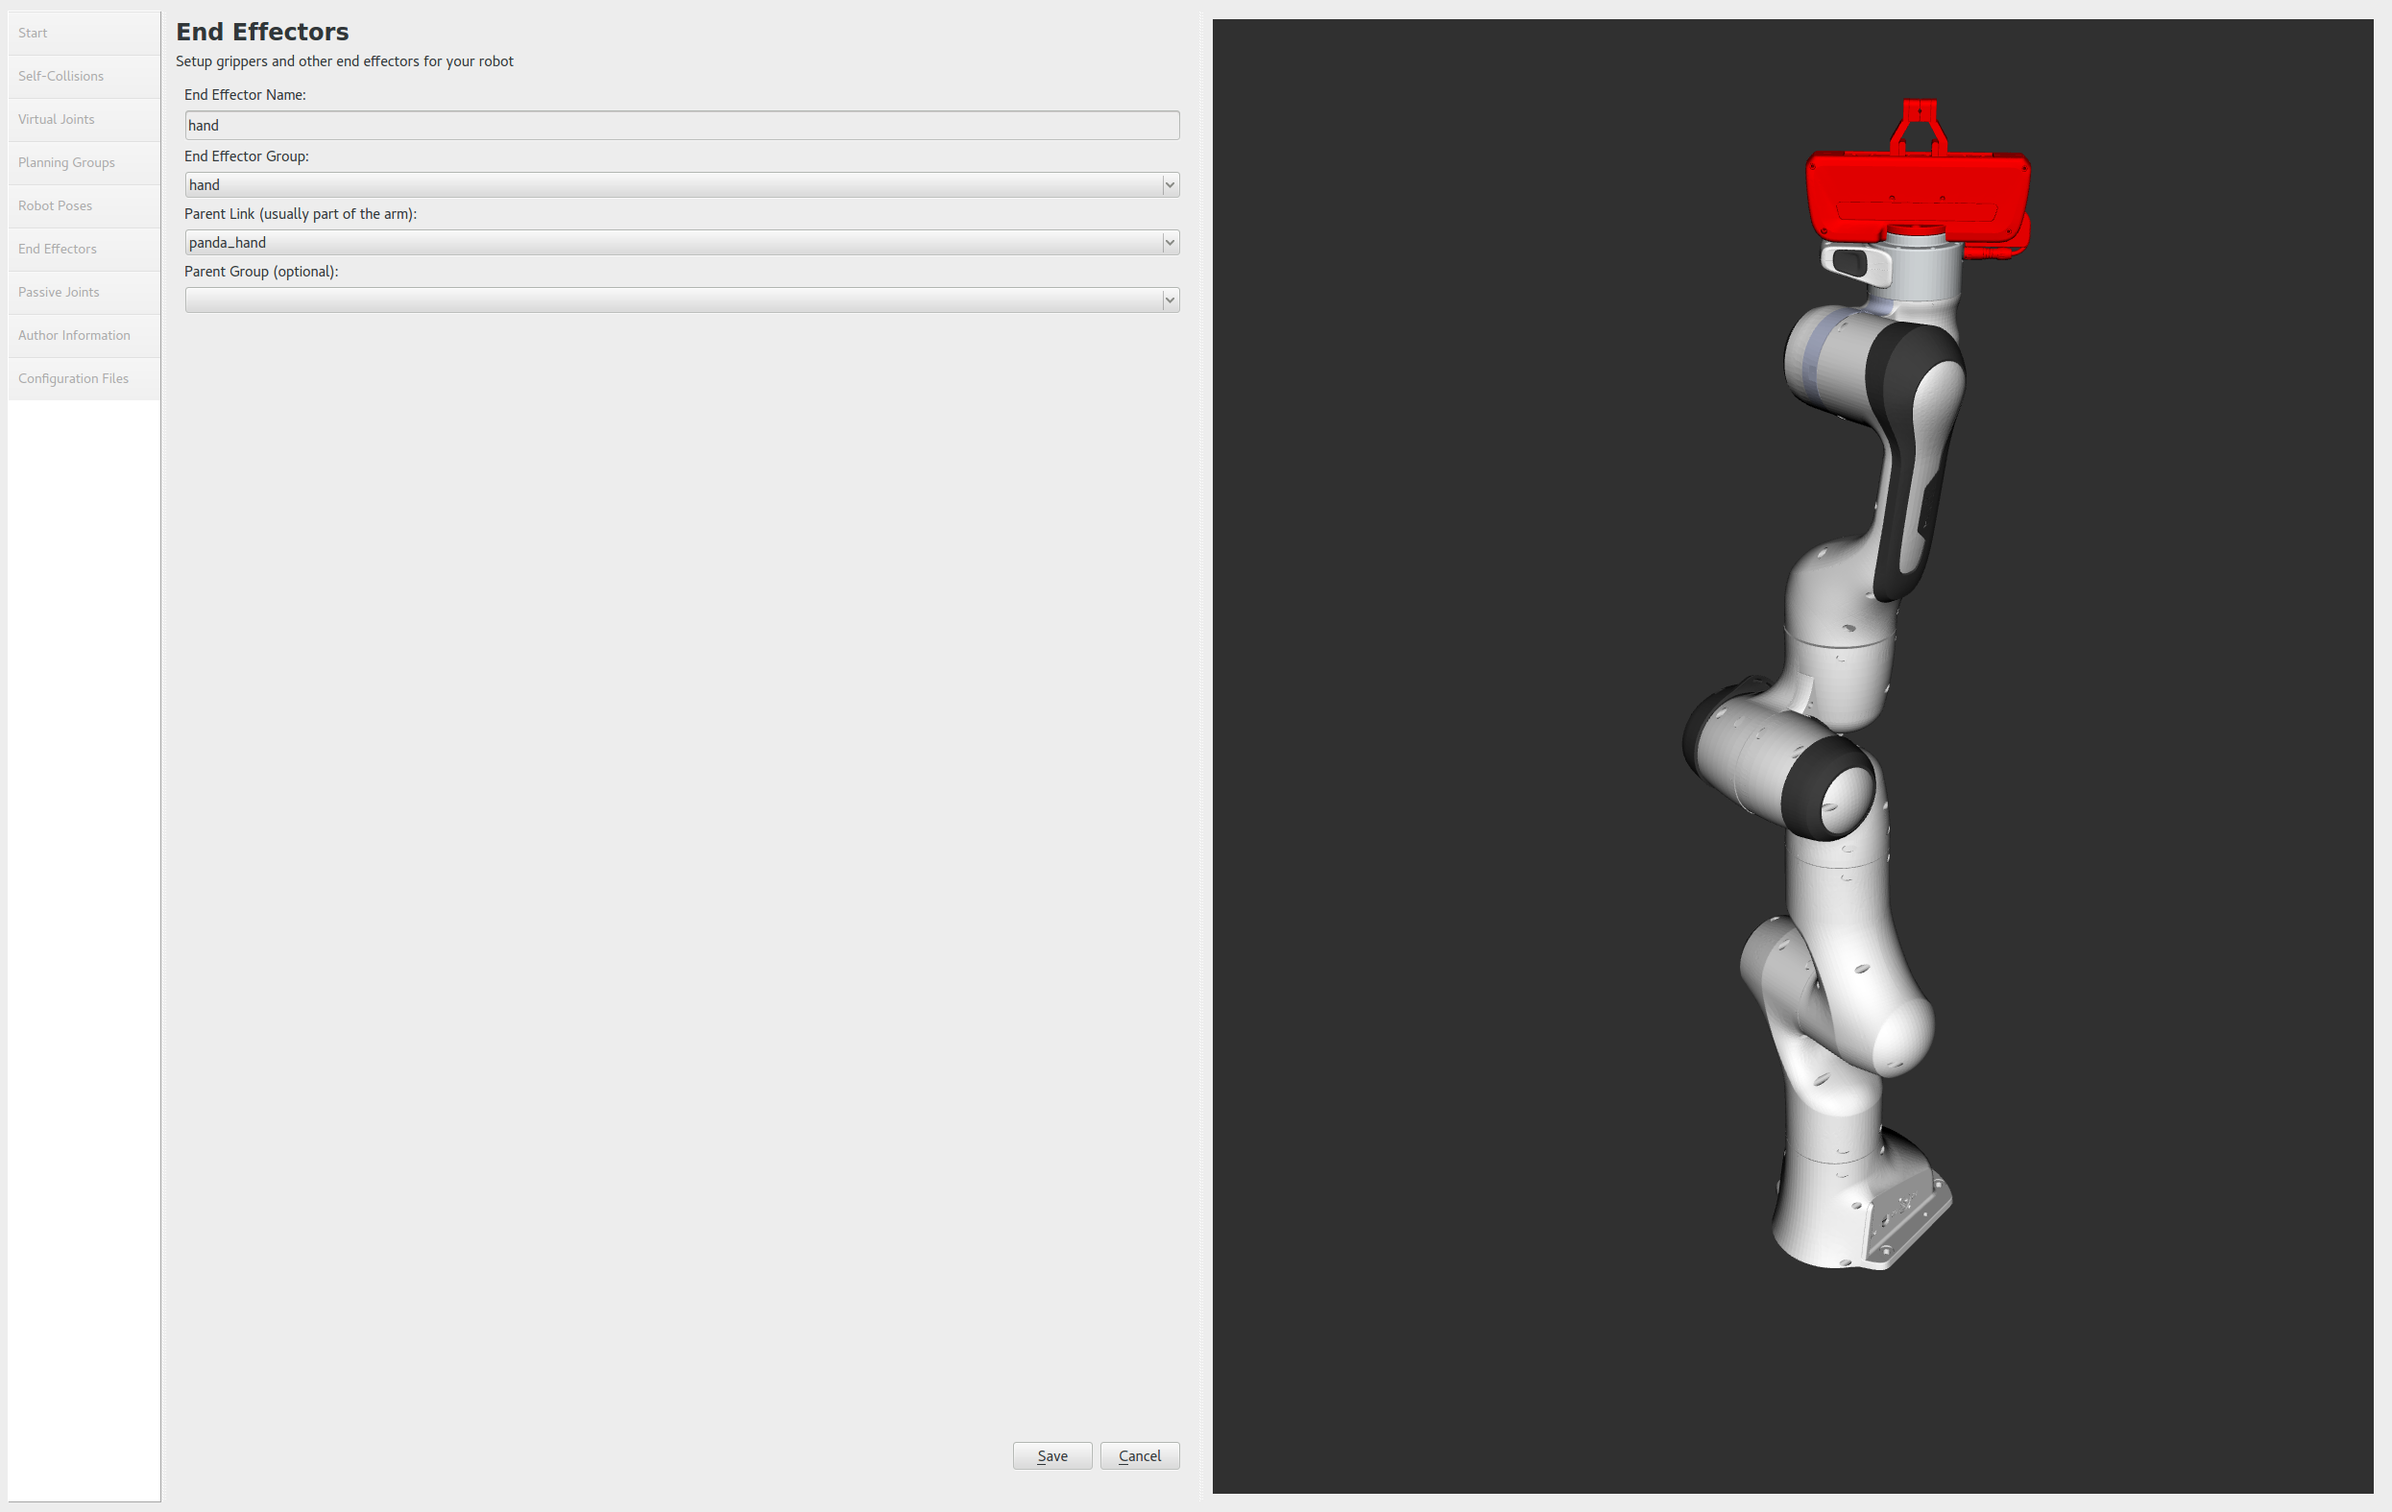
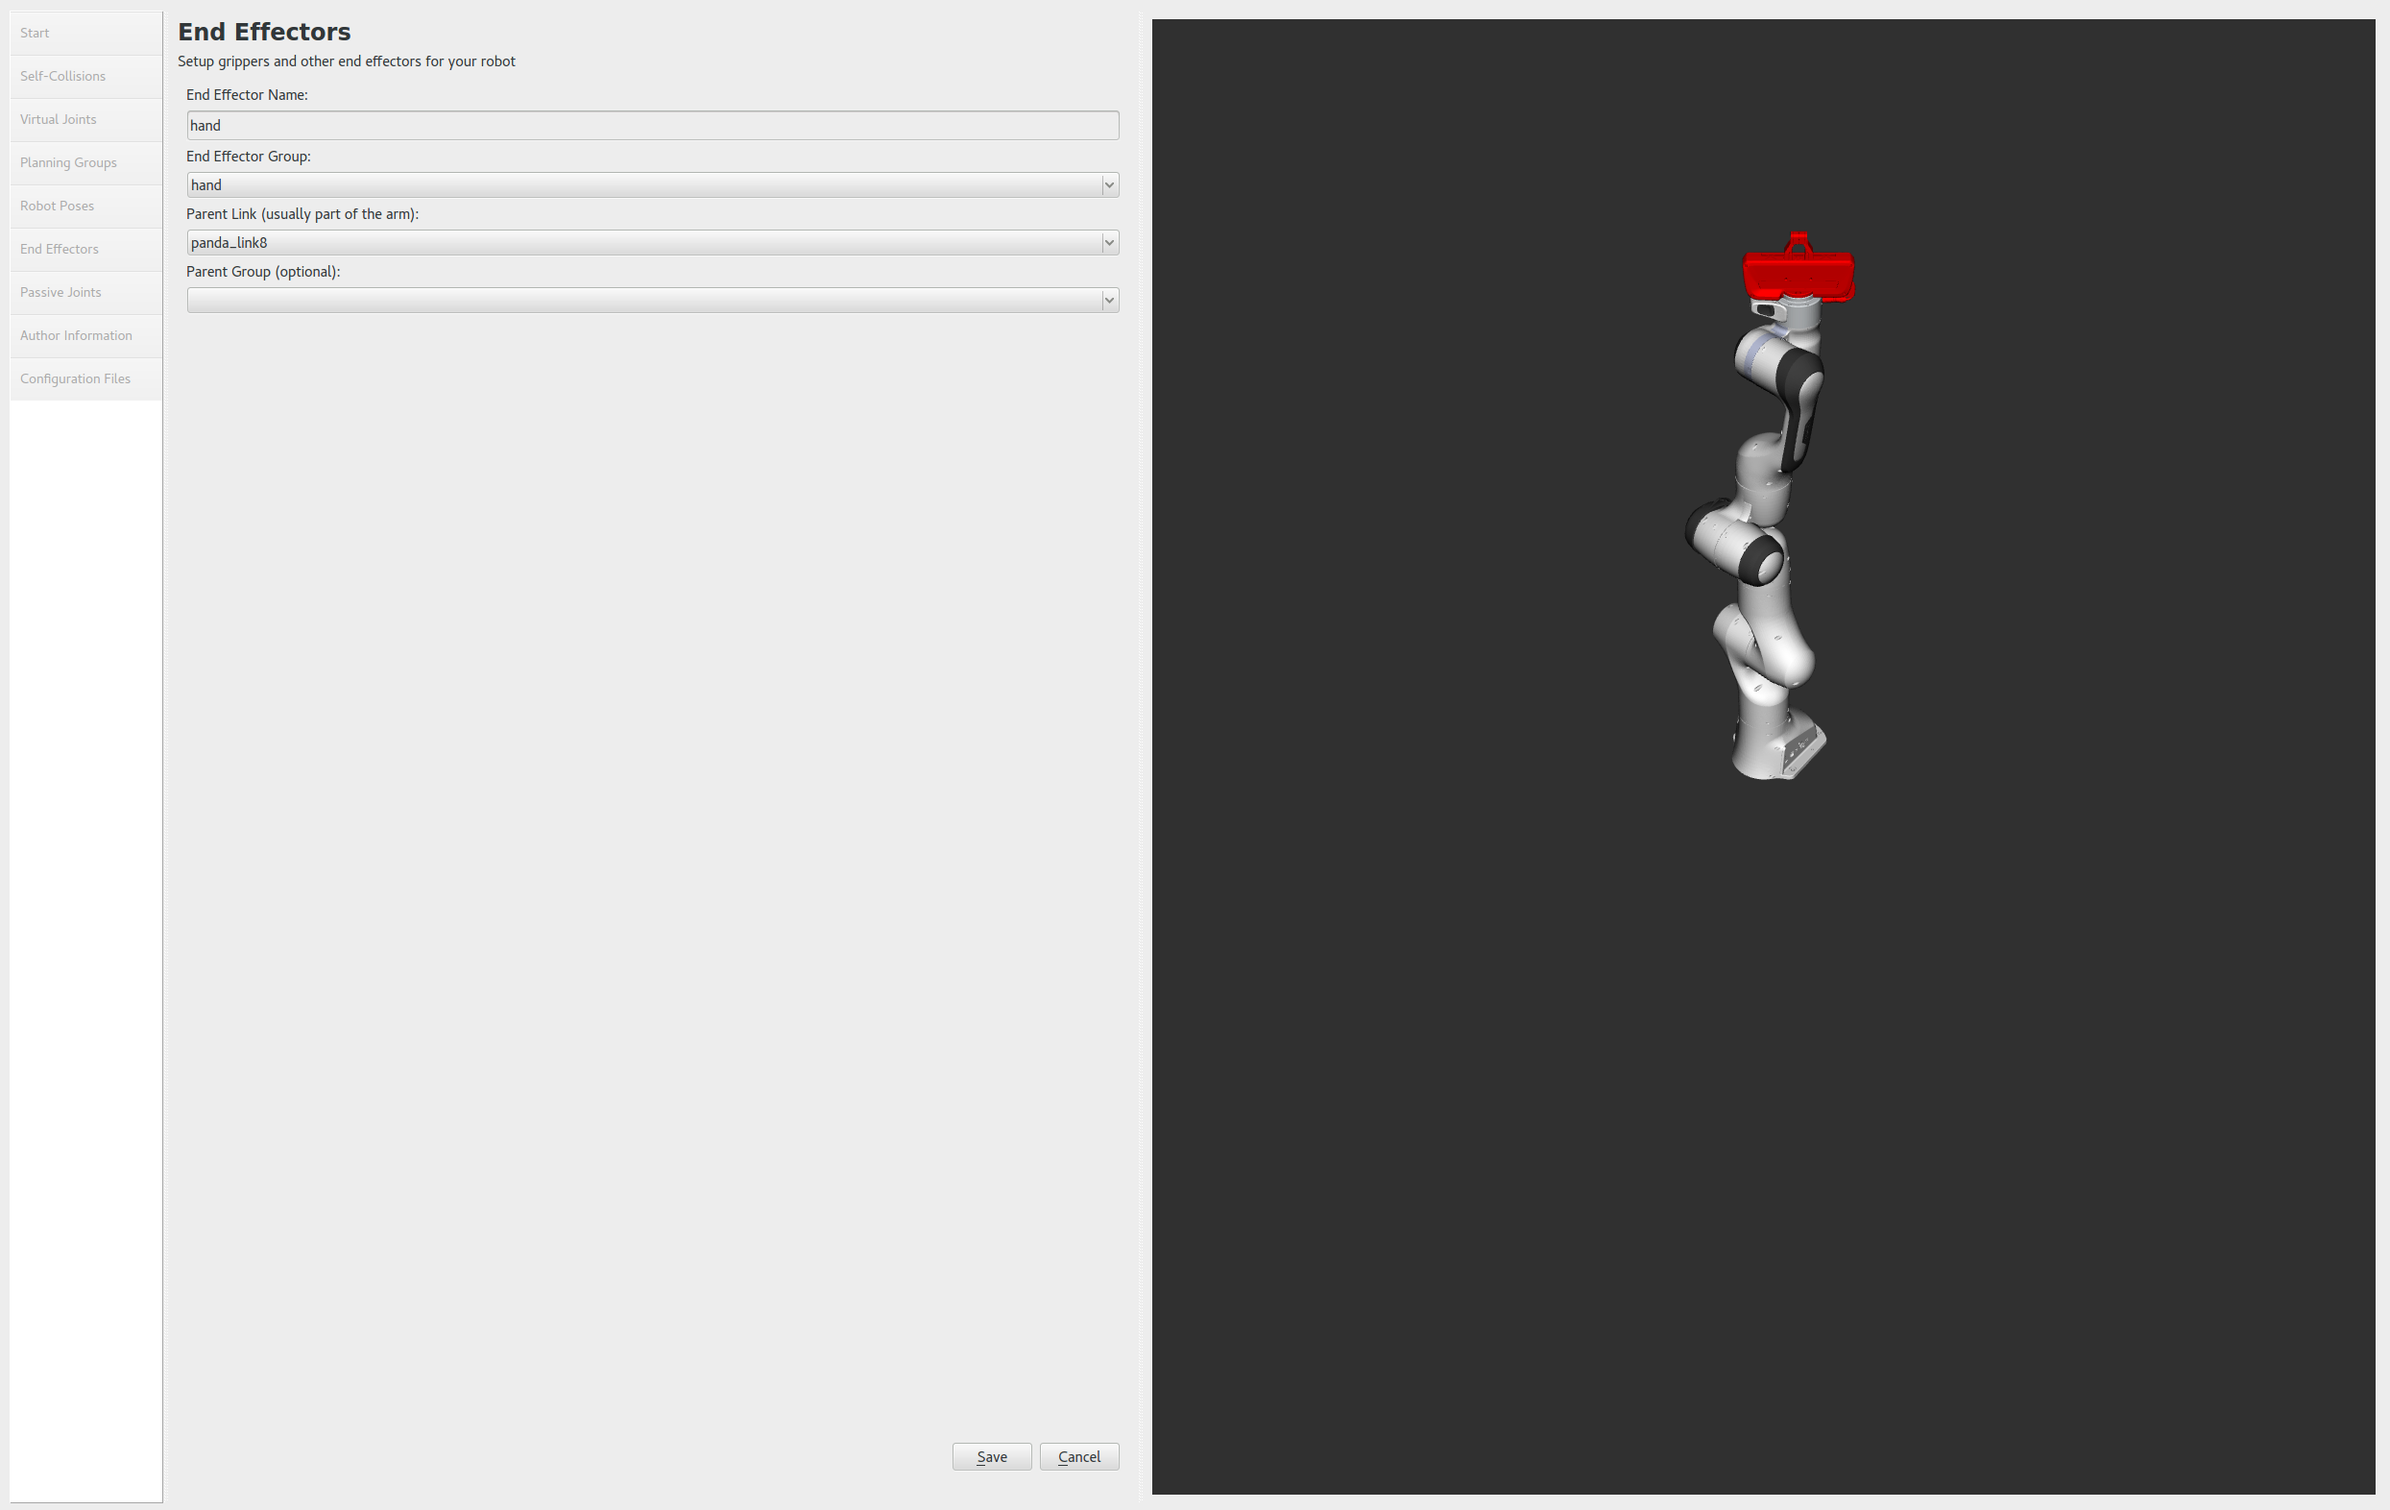
minor fixes to setup assistant tutorial

diff --git a/doc/setup_assistant/setup_assistant_tutorial.rst b/doc/setup_assistant/setup_assistant_tutorial.rst
@@ -95,7 +95,7 @@ robot in a plane.
 
 * Set the joint name as "virtual_joint"
 
-* Set the child link as "base_footprint" and the parent frame name as "world".
+* Set the child link as "panda_link0" and the parent frame name as "world".
 
 * Set the Joint Type as "fixed".
 
@@ -117,7 +117,7 @@ of your robot, such as defining what an arm is, or an end effector.
 .. image:: setup_assistant_panda_planning_groups.png
    :width: 700px
 
-Add the right arm
+Add the arm
 
 * We will first add Panda arm as a planning group
 
@@ -135,7 +135,7 @@ Add the right arm
 
 * Now, click on the *Add Joints* button. You will see a
   list of joints on the left hand side. You need to choose all the
-  joints that belong to the right arm and add them to the right hand
+  joints that belong to the arm and add them to the hand
   side. The joints are arranged in the order that they are stored in
   an internal tree structure. This makes it easy to select a serial
   chain of joints.
@@ -161,7 +161,7 @@ Add the gripper
 
   * Click on the *Add Group* button.
 
-  * Enter *Group Name* as **gripper**
+  * Enter *Group Name* as **hand**
 
   * Let *Kin. Search Resolution* and *Kin. Search Timeout* stay at their default values.
 
@@ -210,9 +210,9 @@ some special operations to happen on them internally.
 
 * Click *Add End Effector*.
 
-* Choose **eef** as the *End Effector Name* for the right gripper.
+* Choose **hand** as the *End Effector Name* for the gripper.
 
-* Select **gripper** as the *End Effector Group*.
+* Select **hand** as the *End Effector Group*.
 
 * Select **panda_link8** as the *Parent Link* for this end-effector.
 
